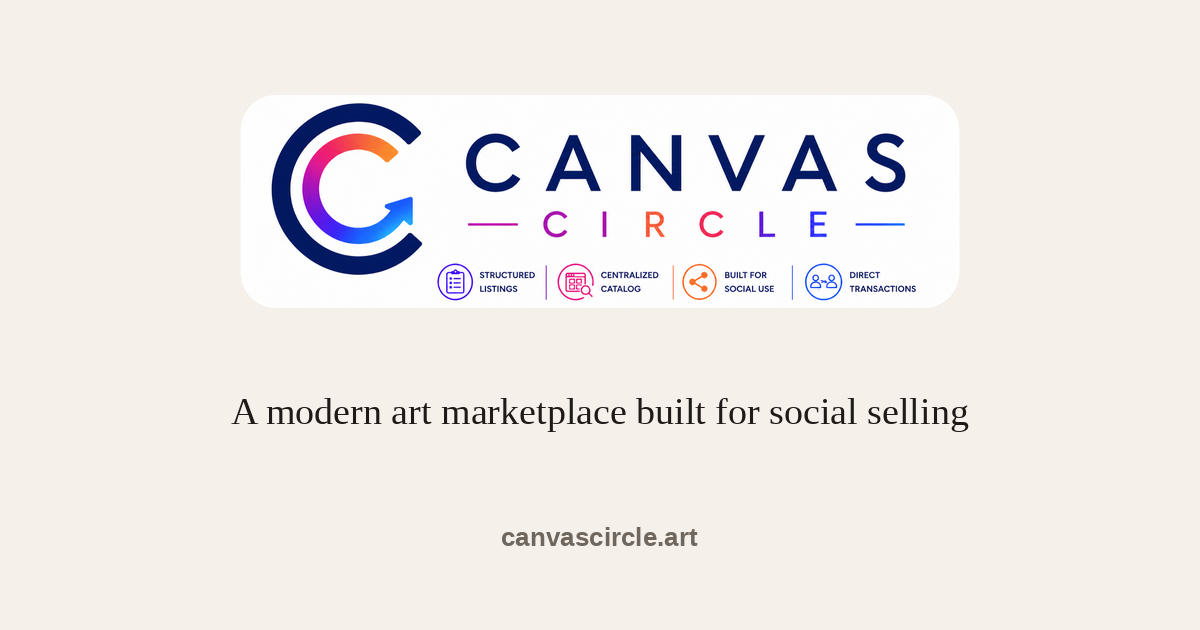
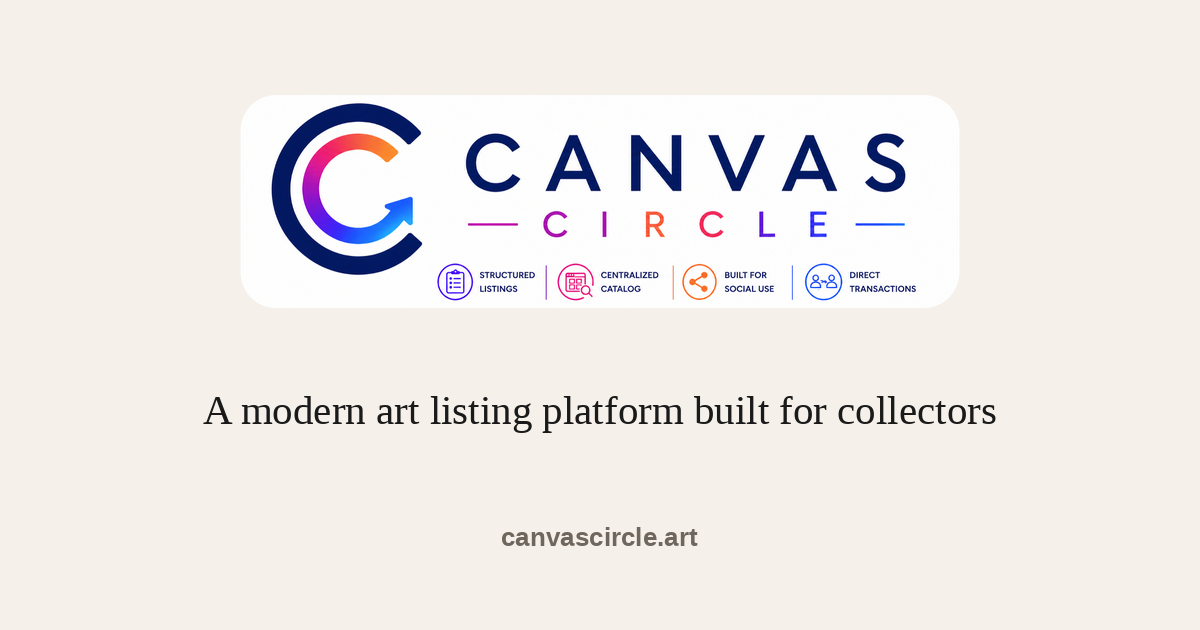
Update og-image.png tagline to 'A modern art listing platform built for collectors' (matches new brand copy); add reusable og_tagline_swap.py for future edits

Changed region(s): [[0.1542, 0.6333, 0.8325, 0.6937]]

diff --git a/assets/og_tagline_swap.py b/assets/og_tagline_swap.py
@@ -1,0 +1,92 @@
+#!/usr/bin/env python3
+# =============================================================================
+# og_tagline_swap.py
+# =============================================================================
+# One-shot utility: swap the tagline text on assets/og-image.png while keeping
+# the logo card, feature badges, and canvascircle.art footer intact.
+#
+# Why this exists:
+#   The original og-image.png was generated by a previous workflow that we no
+#   longer have. To update just the tagline (e.g. when the brand language
+#   changes), we paint over the tagline strip and re-render. This script is
+#   idempotent — run it whenever the NEW_TAGLINE constant changes.
+#
+# Usage:
+#   1. Edit NEW_TAGLINE below.
+#   2. python3 og_tagline_swap.py
+#   3. Commit the updated og-image.png.
+#
+# Requires Pillow:  pip install --break-system-packages pillow
+# =============================================================================
+
+from PIL import Image, ImageDraw, ImageFont
+import os, sys
+
+HERE = os.path.dirname(os.path.abspath(__file__))
+SRC  = os.path.join(HERE, "og-image.png")
+DST  = os.path.join(HERE, "og-image.png")  # overwrite in place
+
+# ---- Edit this string when the tagline changes -------------------------------
+NEW_TAGLINE = "A modern art listing platform built for collectors"
+# -----------------------------------------------------------------------------
+
+# Canvas / brand constants — match the original og-image.png design.
+BG = (245, 241, 234)
+FG = (26, 26, 26)            # matches site's --fg (#1a1a1a)
+# Coordinates of the tagline strip in the original 1200x630 image. The clear
+# box is generous on both sides; the text is then drawn centered horizontally
+# in the original tagline x-range and vertically in the clear box.
+CLEAR_BOX     = (180, 385, 1020, 445)   # (x0, y0, x1, y1)
+TEXT_X_RANGE  = (235, 966)              # original tagline horizontal span
+FONT_CANDIDATES = [
+    "/usr/share/fonts/truetype/liberation/LiberationSerif-Regular.ttf",
+    "/Library/Fonts/Georgia.ttf",                           # macOS
+    "/System/Library/Fonts/Supplemental/Georgia.ttf",       # macOS newer
+    "/usr/share/fonts/truetype/dejavu/DejaVuSerif.ttf",     # Linux fallback
+]
+
+
+def pick_font_path():
+    for p in FONT_CANDIDATES:
+        if os.path.exists(p):
+            return p
+    sys.exit("ERROR: no serif font found. Install Liberation Serif or edit FONT_CANDIDATES.")
+
+
+def main():
+    img = Image.open(SRC).convert("RGB")
+    W, H = img.size
+    draw = ImageDraw.Draw(img)
+
+    # 1) Paint over the existing tagline.
+    draw.rectangle(CLEAR_BOX, fill=BG)
+
+    # 2) Pick the largest font size that still fits the available width.
+    font_path = pick_font_path()
+    max_w = CLEAR_BOX[2] - CLEAR_BOX[0] - 40  # 20px padding each side
+    chosen = None
+    for size in range(48, 22, -1):
+        f = ImageFont.truetype(font_path, size)
+        bbox = draw.textbbox((0, 0), NEW_TAGLINE, font=f)
+        if (bbox[2] - bbox[0]) <= max_w:
+            chosen = (size, f, bbox)
+            break
+    if chosen is None:
+        sys.exit("ERROR: tagline doesn't fit even at size 22. Shorten it.")
+    size, f, bbox = chosen
+
+    # 3) Center the text horizontally in the original x-range and vertically
+    #    in the clear box.
+    text_w = bbox[2] - bbox[0]
+    text_h = bbox[3] - bbox[1]
+    cx = (TEXT_X_RANGE[0] + TEXT_X_RANGE[1]) / 2
+    x  = int(cx - text_w / 2 - bbox[0])
+    y  = int((CLEAR_BOX[1] + CLEAR_BOX[3]) / 2 - text_h / 2 - bbox[1])
+
+    draw.text((x, y), NEW_TAGLINE, font=f, fill=FG)
+    img.save(DST, optimize=True)
+    print(f"OK: tagline updated. font_size={size}, text_w={text_w}px, drawn at ({x}, {y})")
+
+
+if __name__ == "__main__":
+    main()
